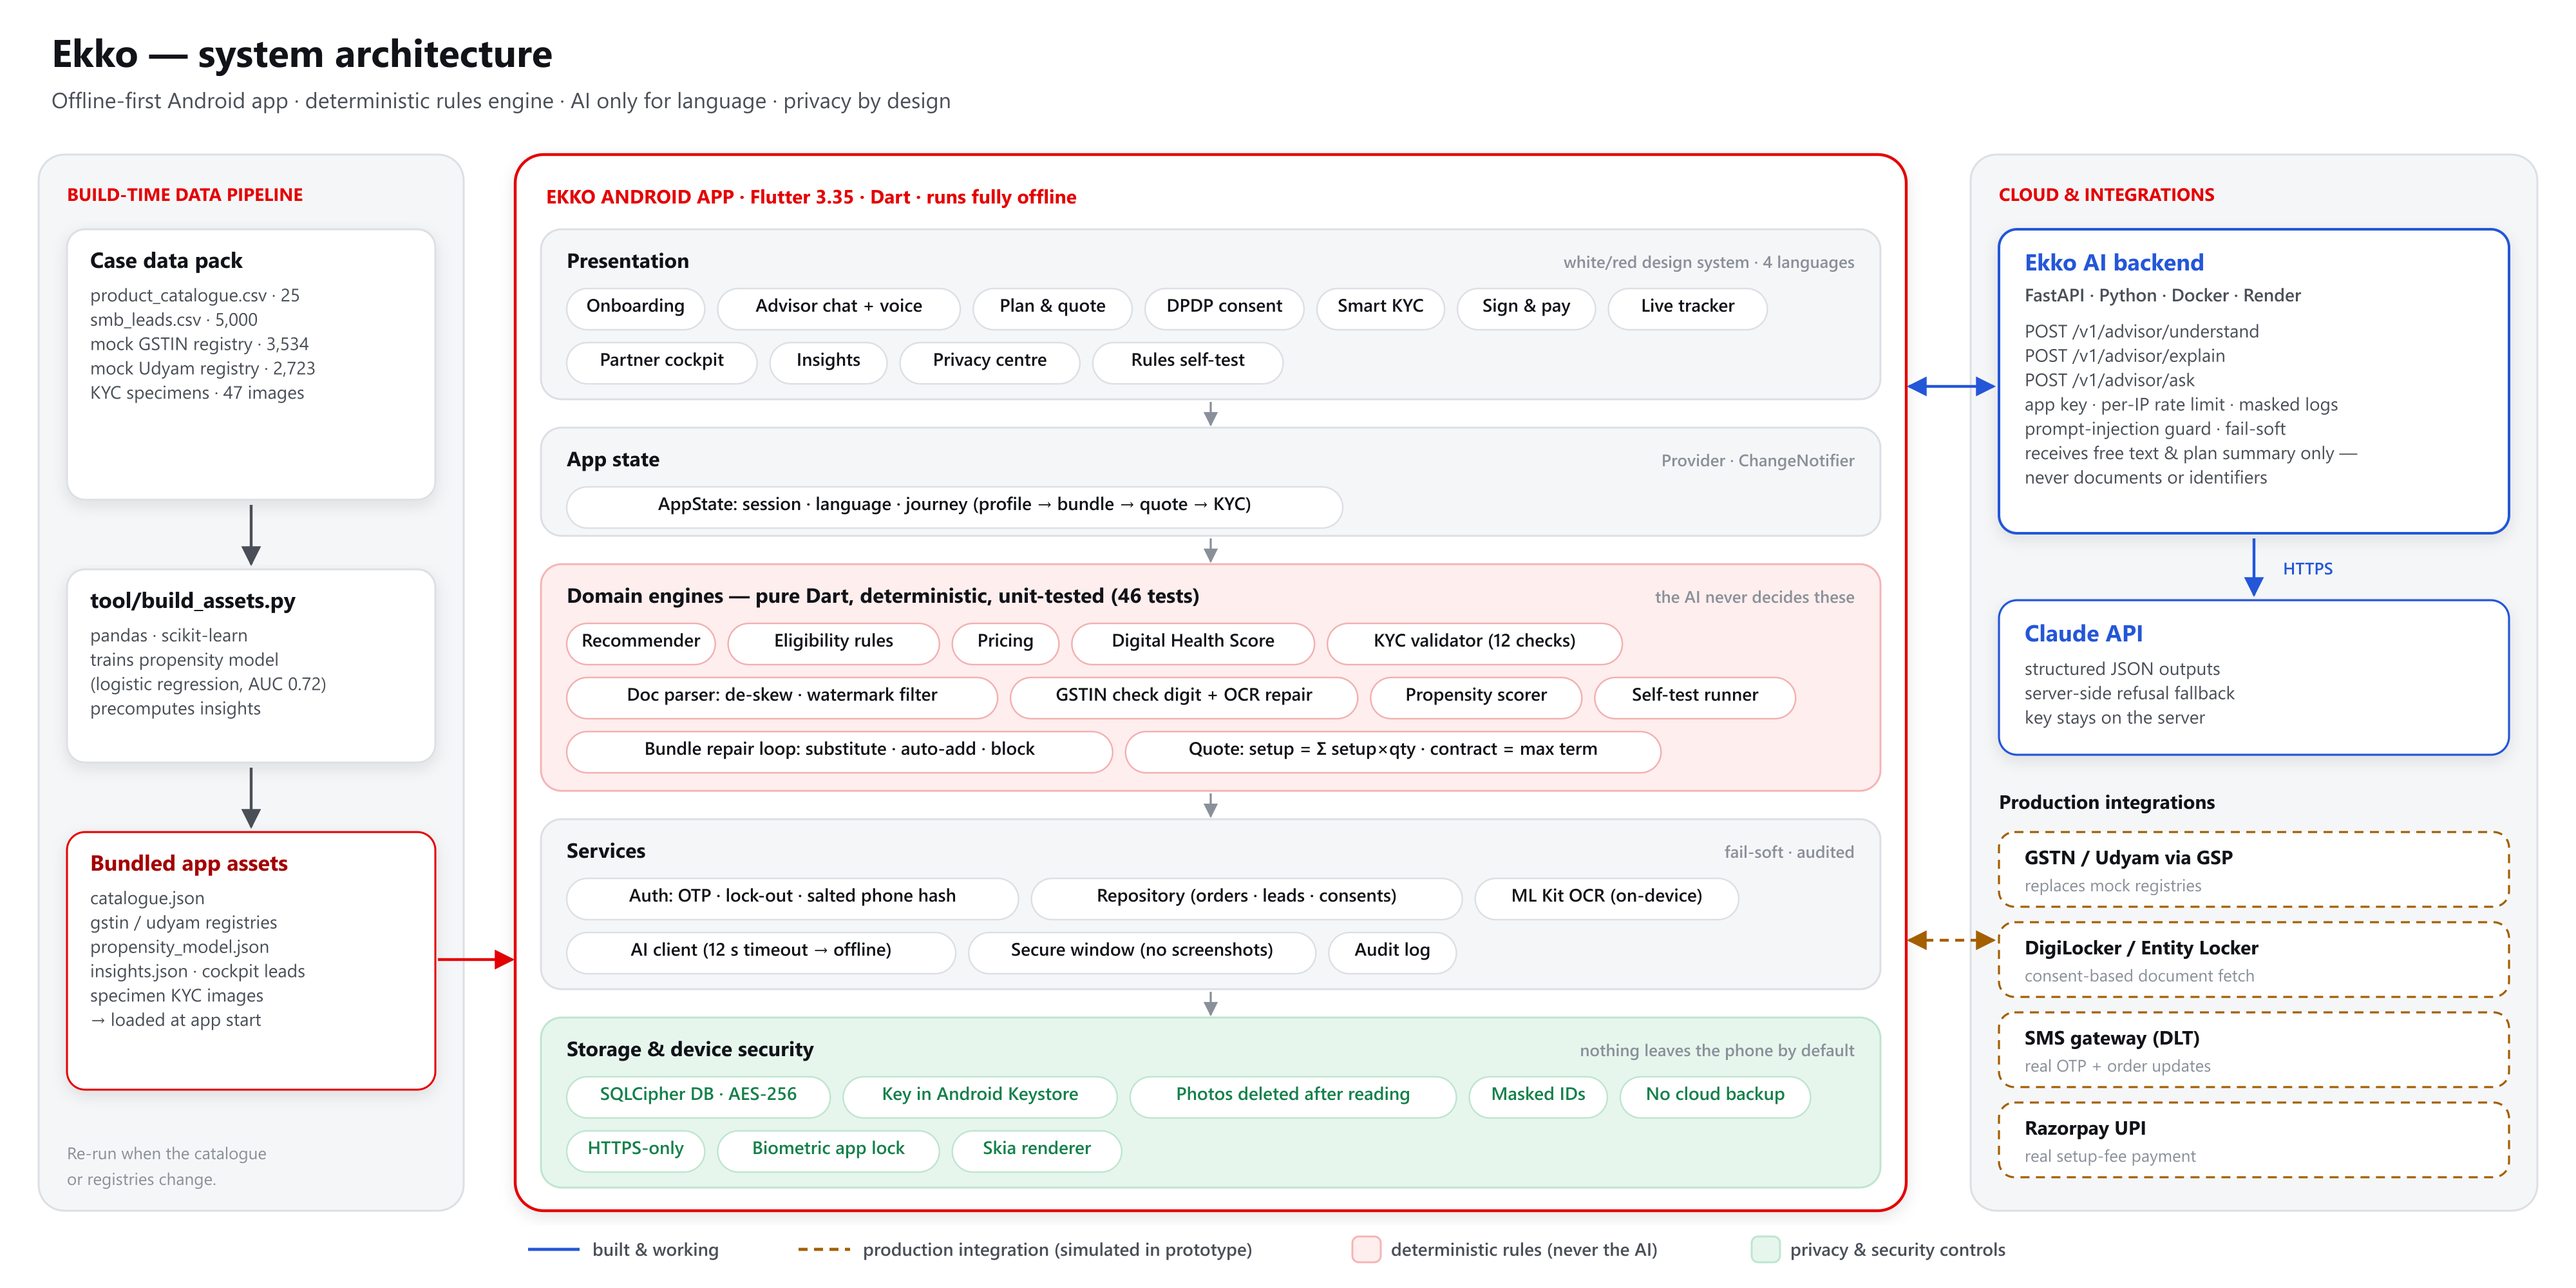
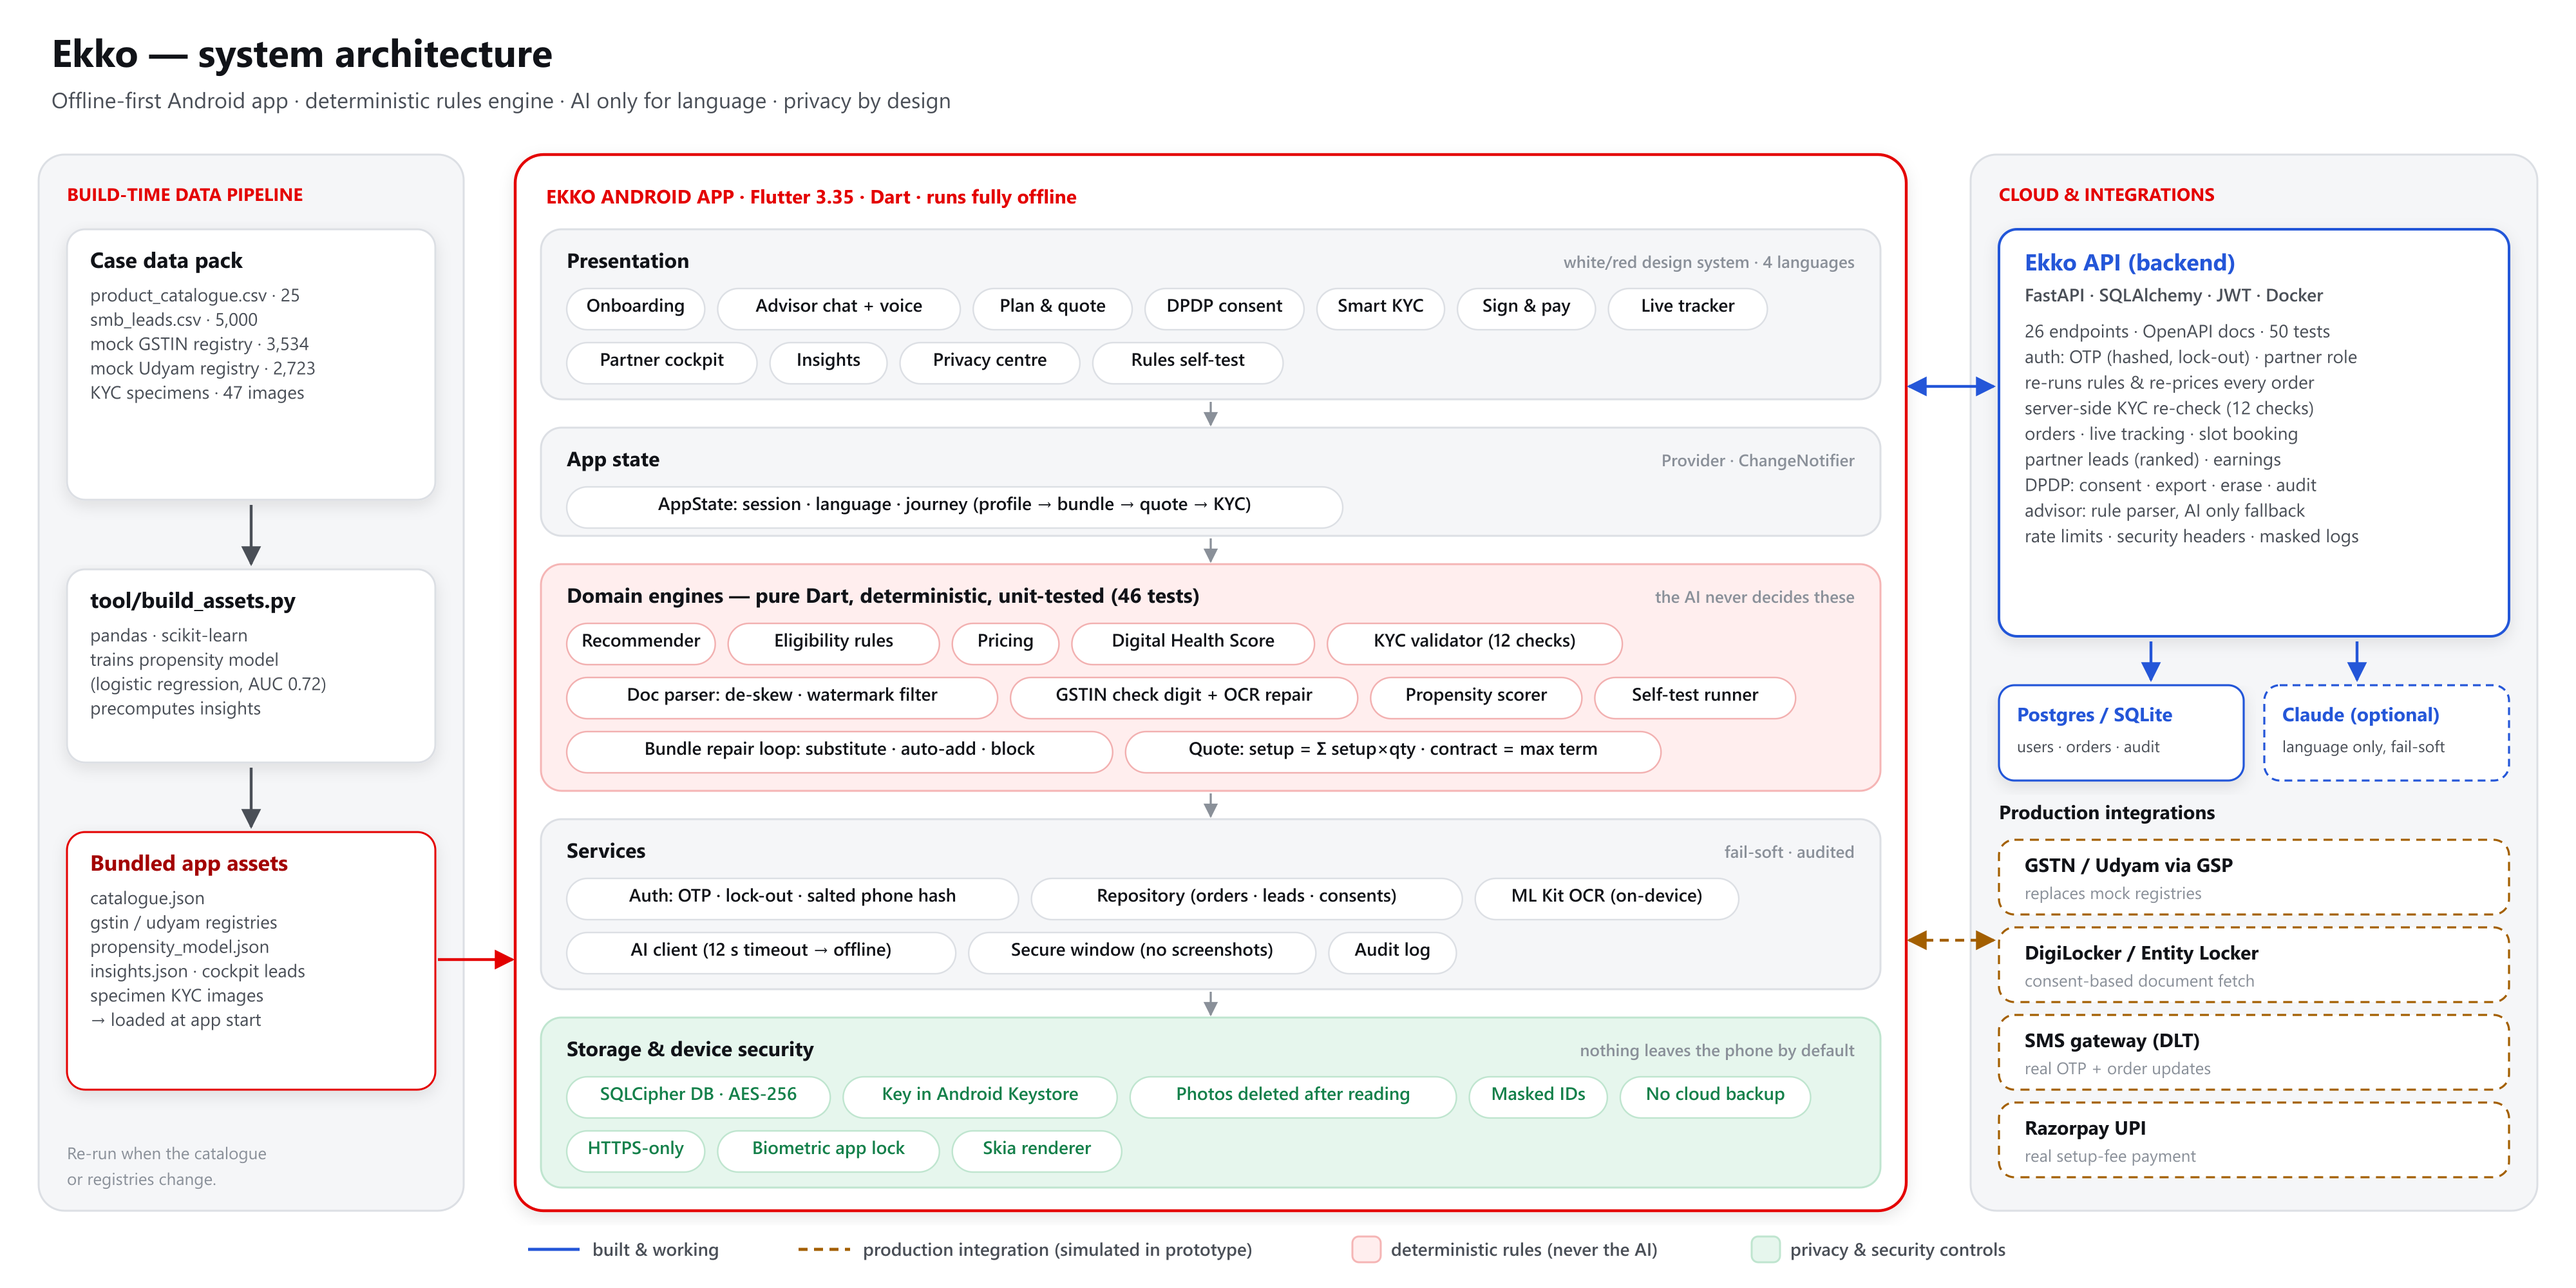
Document the backend: architecture, API surface and request flow

Changed region(s): [[0.7812, 0.186, 0.9688, 0.589], [0.7812, 0.62, 0.9688, 0.837]]

diff --git a/docs/diagrams/make_diagrams.py b/docs/diagrams/make_diagrams.py
@@ -139,23 +139,33 @@ def architecture():
     RX = 1530
     s.rect(RX, 120, 440, 820, CANVAS, LINE, 20)
     s.text(RX + 22, 156, "CLOUD & INTEGRATIONS", 14, 800, RED)
-    s.rect(RX + 22, 178, 396, 236, WHITE, BLUE, 14, 2, shadow=True)
-    s.text(RX + 42, 210, "Ekko AI backend", 18, 800, BLUE)
-    s.text(RX + 42, 234, "FastAPI · Python · Docker · Render", 14, 600, INK2)
-    s.lines(RX + 42, 262, ["POST /v1/advisor/understand", "POST /v1/advisor/explain", "POST /v1/advisor/ask",
-                           "app key · per-IP rate limit · masked logs", "prompt-injection guard · fail-soft",
-                           "receives free text & plan summary only —", "never documents or identifiers"], 14)
-    s.arrow(RX + 220, 418, RX + 220, 462, BLUE, label="HTTPS", lx=RX + 262, ly=446)
-    s.rect(RX + 22, 466, 396, 120, WHITE, BLUE, 14, 1.6, shadow=True)
-    s.text(RX + 42, 498, "Claude API", 18, 800, BLUE)
-    s.lines(RX + 42, 524, ["structured JSON outputs", "server-side refusal fallback", "key stays on the server"], 14)
+    s.rect(RX + 22, 178, 396, 316, WHITE, BLUE, 14, 2, shadow=True)
+    s.text(RX + 42, 210, "Ekko API (backend)", 18, 800, BLUE)
+    s.text(RX + 42, 234, "FastAPI · SQLAlchemy · JWT · Docker", 14, 600, INK2)
+    s.lines(RX + 42, 262, ["26 endpoints · OpenAPI docs · 50 tests",
+                           "auth: OTP (hashed, lock-out) · partner role",
+                           "re-runs rules & re-prices every order",
+                           "server-side KYC re-check (12 checks)",
+                           "orders · live tracking · slot booking",
+                           "partner leads (ranked) · earnings",
+                           "DPDP: consent · export · erase · audit",
+                           "advisor: rule parser, AI only fallback",
+                           "rate limits · security headers · masked logs"], 14, lh=1.42)
+    s.arrow(RX + 140, 498, RX + 140, 528, BLUE)
+    s.arrow(RX + 300, 498, RX + 300, 528, BLUE)
+    s.rect(RX + 22, 532, 190, 74, WHITE, BLUE, 12, 1.6, shadow=True)
+    s.text(RX + 36, 560, "Postgres / SQLite", 15, 800, BLUE)
+    s.text(RX + 36, 584, "users · orders · audit", 12.5, 500, INK2)
+    s.rect(RX + 228, 532, 190, 74, WHITE, BLUE, 12, 1.6, dash="6 4")
+    s.text(RX + 242, 560, "Claude (optional)", 15, 800, BLUE)
+    s.text(RX + 242, 584, "language only, fail-soft", 12.5, 500, INK2)
 
-    s.text(RX + 22, 628, "Production integrations", 15, 800, INK)
+    s.text(RX + 22, 636, "Production integrations", 15, 800, INK)
     for i, (t, sub) in enumerate([("GSTN / Udyam via GSP", "replaces mock registries"),
                                   ("DigiLocker / Entity Locker", "consent-based document fetch"),
                                   ("SMS gateway (DLT)", "real OTP + order updates"),
                                   ("Razorpay UPI", "real setup-fee payment")]):
-        y = 646 + i * 70
+        y = 652 + i * 68
         s.rect(RX + 22, y, 396, 58, WHITE, AMBER, 12, 1.6, dash="7 5")
         s.text(RX + 42, y + 25, t, 15, 700, INK)
         s.text(RX + 42, y + 46, sub, 13, 500, MUTED)

diff --git a/README.md b/README.md
@@ -10,7 +10,7 @@ Airtel Sync 2026 · Digital Track · Case: *Project Udyam Digital*
 
 [▶ **Watch the demo**](https://youtube.com/shorts/4LlFCjojVFk) · [⬇ **Download the APK**](https://github.com/deepakm0003/Ekko/releases/latest) · [🏗 Architecture](#architecture) · [📊 Research](RESEARCH_Udyam_Digital.md)
 
-![Flutter](https://img.shields.io/badge/Flutter-3.35-02569B?logo=flutter) ![Dart](https://img.shields.io/badge/Dart-3.9-0175C2?logo=dart) ![FastAPI](https://img.shields.io/badge/FastAPI-backend-009688?logo=fastapi) ![Tests](https://img.shields.io/badge/tests-46%20passing-14804A) ![DPDP](https://img.shields.io/badge/DPDP%20Act%202023-by%20design-E40000)
+![Flutter](https://img.shields.io/badge/Flutter-3.35-02569B?logo=flutter) ![Dart](https://img.shields.io/badge/Dart-3.9-0175C2?logo=dart) ![FastAPI](https://img.shields.io/badge/FastAPI-26%20endpoints-009688?logo=fastapi) ![Tests](https://img.shields.io/badge/tests-46%20app%20%2B%2050%20backend-14804A) ![DPDP](https://img.shields.io/badge/DPDP%20Act%202023-by%20design-E40000)
 
 </div>
 
@@ -76,24 +76,29 @@ Full analysis: [`RESEARCH_Udyam_Digital.md`](RESEARCH_Udyam_Digital.md) · build
 
 ![Smart KYC pipeline](docs/diagrams/kyc_pipeline.png)
 
-### AI backend sequence
+### Backend: the server is the source of truth
+
+The phone works fully offline, and the backend makes the same journey trustworthy at scale. **The server never trusts the client:** it re-runs every catalogue rule, re-derives GST status from the registry, re-prices the bundle and re-checks the KYC fields before an order exists. No paid API is needed; Claude is an optional fallback for language only.
 
 ```mermaid
 sequenceDiagram
     autonumber
     participant App as Ekko app
-    participant API as FastAPI backend
-    participant C as Claude API
-    App->>API: POST /v1/advisor/understand<br/>X-Ekko-App-Key, {step, text, language}
-    API->>API: verify app key (HMAC compare) · per-IP rate limit · mask GSTIN / numbers in logs
-    API->>C: messages.create (structured JSON schema, effort: low, refusal fallback)
-    alt success
-        C-->>API: profile fields as strict JSON
-        API-->>App: {fields}
-        App->>App: rules engine validates → plan
-    else error / timeout / refusal
-        API-->>App: {fields: null}
-        App->>App: offline chips (no interruption)
+    participant API as Ekko API (FastAPI)
+    participant DB as Postgres / SQLite
+    App->>API: POST /v1/auth/otp/verify
+    API->>DB: OTP hash check · attempts · lock-out
+    API-->>App: JWT (role: owner)
+    App->>API: POST /v1/kyc/verify (OCR fields only, never images)
+    API->>API: GSTIN check digit · registry status · names · 90-day bill · signatory role
+    API->>DB: kyc_report (masked)
+    App->>API: POST /v1/orders {profile, items, kycReportId, expectedMonthly}
+    API->>API: re-derive GST status from registry · validate every rule · re-price
+    alt rule broken or price differs or KYC not approved
+        API-->>App: 422 violations / 409 serverMonthly / 409 KYC
+    else valid
+        API->>DB: order + audit_log
+        API-->>App: 201 order (status, ETA)
     end
 ```
 
@@ -144,16 +149,22 @@ erDiagram
 
 An append-only `audit_log` table records logins, consents, KYC runs, orders and exports (details are masked).
 
-### Backend API
+### Backend API — 26 endpoints ([`ekko_backend/`](ekko_backend))
 
-| Endpoint | Purpose | Guardrails |
+| Area | Endpoints | What the server guarantees |
 |---|---|---|
-| `GET /health` | Liveness | — |
-| `POST /v1/advisor/understand` | Free-text answer (any Indian language, Hinglish, speech typos) → profile fields | JSON schema output, enum-restricted needs, user text treated as data |
-| `POST /v1/advisor/explain` | Explain an **already validated** plan in the owner's language | Cannot add items or change prices |
-| `POST /v1/advisor/ask` | Short product Q&A ("what is a static IP?") | Never quotes prices or eligibility |
+| Ops | `GET /health` · `GET /ready` | readiness checks DB + reference data (25 products, 3,534 GSTIN, 2,723 Udyam, model AUC) |
+| Auth | `POST /v1/auth/otp/request` · `/otp/verify` · `/partner` | OTP stored as PBKDF2 hash, 5-minute expiry, 5-attempt lock-out; JWT with role (owner / partner) |
+| Plans | `GET /v1/catalogue` · `POST /v1/plans/recommend` · `/plans/quote` | Python port of the app's rules engine; every bundle checked, priced server-side |
+| Registry | `GET /v1/registry/gstin/{gstin}` · `/registry/udyam/{n}` | check digit before lookup; identifiers returned masked |
+| Advisor | `POST /v1/advisor/understand` · `/explain` · `/ask` | multilingual rule parser (Hindi, Hinglish, Devanagari digits) first; Claude only as fallback; never sets prices |
+| KYC | `POST /v1/kyc/verify` | re-runs all 12 checks on OCR fields so a modified app can't fake a pass |
+| Orders | `POST/GET /v1/orders` · `GET /v1/orders/{id}` · `POST /v1/orders/{id}/slot` | rejects ineligible bundles (422), price tampering (409), unapproved KYC (409); other users' orders return 404 |
+| Partner | `POST /v1/leads` · `GET /v1/partner/leads` · `/partner/earnings` | leads ranked by the propensity model; partner-only (403 for owners); commission from partner codes |
+| DPDP | `GET/POST /v1/me/consents` · `GET /v1/me/export` · `DELETE /v1/me` · `GET /v1/me/audit` | consent log with notice version, full export, erasure, personal security log |
 
-All endpoints require `X-Ekko-App-Key`, are rate-limited per IP, log masked text only, and return `null` on any upstream failure. Verified locally: `/health` OK, missing key → 401, invalid input → 422, upstream failure → graceful `null`.
+**Hardening:** strict schemas (unknown fields rejected), per-IP rate limiting, request IDs, security headers (HSTS, nosniff, no-store), masked logs, non-root Docker image with health check, Postgres-ready via SQLAlchemy.
+**Verified:** 50 automated tests (`pytest`) cover the 13 advisor edge cases, a 1,792-profile rule sweep, all 12 KYC specimens, OTP lock-out, role checks, tampering attacks and DPDP erasure. Interactive docs at `/docs`.
 
 ### Tech stack
 
@@ -163,7 +174,7 @@ All endpoints require `X-Ekko-App-Key`, are rate-limited per IP, log masked text
 | On-device ML | Google ML Kit text recognition; logistic-regression propensity model (scikit-learn → JSON weights) |
 | Storage & security | `sqflite_sqlcipher`, `flutter_secure_storage` (Android Keystore), `local_auth`, `FLAG_SECURE` |
 | Voice | `speech_to_text` (en-IN, hi-IN, ta-IN, mr-IN) |
-| Backend | FastAPI, Anthropic SDK (Claude, structured outputs), Docker, Render blueprint |
+| Backend | FastAPI, SQLAlchemy 2 (Postgres / SQLite), PyJWT, pytest, Docker, Render blueprint, GitHub Actions CI; Anthropic SDK optional |
 | Data pipeline | pandas, scikit-learn (`ekko_app/tool/build_assets.py`) |
 
 ---
@@ -213,7 +224,7 @@ All endpoints require `X-Ekko-App-Key`, are rate-limited per IP, log masked text
 
 | Real (runs on the phone) | Simulated in this prototype | Production path |
 |---|---|---|
-| Rules engine & pricing, Smart KYC with on-device OCR, encryption, consent & privacy centre, propensity model, insights | GSTN / Udyam / DigiLocker use the case's mock registries · OTP shown on screen · UPI simulated · AI backend built but not deployed (advisor runs offline) | Licensed GSP & DigiLocker APIs, SMS gateway with DLT registration, Razorpay, hosted AI backend (`ekko_backend/`) |
+| Rules engine & pricing, Smart KYC with on-device OCR, encryption, consent & privacy centre, propensity model, insights | GSTN / Udyam / DigiLocker use the case's mock registries · OTP shown on screen · UPI simulated · backend built and tested (50 tests) but not yet hosted; the app runs offline | Licensed GSP & DigiLocker APIs, SMS gateway with DLT registration, Razorpay, hosted `ekko_backend/` (one-click Render blueprint) |
 
 ## Security & privacy (DPDP Act 2023)
 
@@ -242,7 +253,11 @@ ekko_app/                Flutter app (Android)
   lib/screens/             onboarding, login, advisor, plan, consent, KYC, checkout, tracker, partner, insights, account, self-test
   tool/build_assets.py     builds app data (catalogue, registries, model, insights) from the case CSVs
   test/                    46 unit tests (advisor scenarios, pricing, 12 KYC applicants, OCR repair, self-test sweep)
-ekko_backend/            FastAPI + Claude service (understand / explain / ask), Dockerfile, render.yaml
+ekko_backend/            FastAPI service: auth, plans, KYC, orders, partner, DPDP (26 endpoints)
+  app/domain/              Python port of the rules engine, pricing, KYC validator, parser, propensity model
+  app/routers/             auth · plans · orders · people (partner & privacy)
+  tests/                   50 pytest tests
+.github/workflows/ci.yml backend tests + Docker build + Flutter analyze/test on every push
 docs/diagrams/           architecture diagrams (SVG/PNG) + generator
 ```
 
@@ -261,10 +276,12 @@ flutter build apk --release --split-per-abi --dart-define=EKKO_API=https://<your
 **Backend** (optional — the app works fully offline without it)
 ```bash
 cd ekko_backend
-pip install -r requirements.txt
-ANTHROPIC_API_KEY=... EKKO_APP_KEY=... uvicorn app:app --port 8000
+pip install -r requirements-dev.txt
+python -m pytest                       # 50 tests
+uvicorn app.main:app --port 8000       # docs at http://localhost:8000/docs
+# or: docker build -t ekko-api . && docker run -p 8000:8000 ekko-api
 ```
-Deploys to Render via `render.yaml`.
+Settings (all optional): `EKKO_DATABASE_URL`, `EKKO_JWT_SECRET`, `EKKO_DEMO_OTP`, `ANTHROPIC_API_KEY`. Deploys to Render (API + Postgres) via `render.yaml`.
 
 **Rebuild data assets / diagrams**
 ```bash
